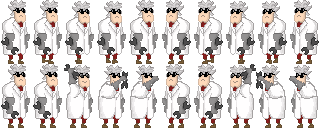
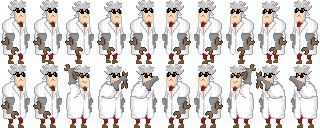
fix

diff --git a/alpha_V01/src/scenes/level_02.js b/alpha_V01/src/scenes/level_02.js
@@ -189,7 +189,13 @@ export class Level02 extends Phaser.Scene {
 
     ballActivate(player, ball){
         let proj = this.physics.add.sprite(ball.x + 1600, ball.y, "roulant");
-        proj.setFrame(Math.floor(Math.random() * (1 - 0 + 1)));
+        let random = (Math.floor(Math.random() * (1 - 0 + 1)));
+        if (random == 0){
+            proj.anims.play("rat", true);
+        }
+        else {
+            proj.anims.play("roue", true);
+        }
         this.proj.add(proj)
         proj.setVelocityX(-800);
         proj.setScale((ball.y * 2.5) / 1024);

diff --git a/alpha_V01/src/scenes/level_03.js b/alpha_V01/src/scenes/level_03.js
@@ -184,7 +184,13 @@ export class Level03 extends Phaser.Scene {
 
     ballActivate(player, ball){
         let proj = this.physics.add.sprite(ball.x + 1600, ball.y, "roulant");
-        proj.setFrame(Math.floor(Math.random() * (1 - 0 + 1)));
+        let random = (Math.floor(Math.random() * (1 - 0 + 1)));
+        if (random == 0){
+            proj.anims.play("rat", true);
+        }
+        else {
+            proj.anims.play("roue", true);
+        }
         this.proj.add(proj)
         proj.setVelocityX(-800);
         proj.setScale((ball.y * 2.5) / 1024);

diff --git a/alpha_V01/src/scenes/preload.js b/alpha_V01/src/scenes/preload.js
@@ -282,7 +282,8 @@ export class Preload extends Phaser.Scene {
         this.anims.create({
             key: 'dist_perso',
             frames: this.anims.generateFrameNumbers('proj_perso', { start: 0, end: 8 }),
-            frameRate: 10
+            frameRate: 10,
+            repeat:-1
         });
         this.anims.create({
             key: 'dist_linux',

diff --git a/alpha_V01/assets/entity/attaque_distance.js b/alpha_V01/assets/entity/attaque_distance.js
@@ -66,6 +66,8 @@ export class AttaqueDIST extends Phaser.Physics.Arcade.Sprite {
                 this.destroy();
             }
         }
+
+        this.disapear = false;
     }
 
     getSkin(skin, direction){
